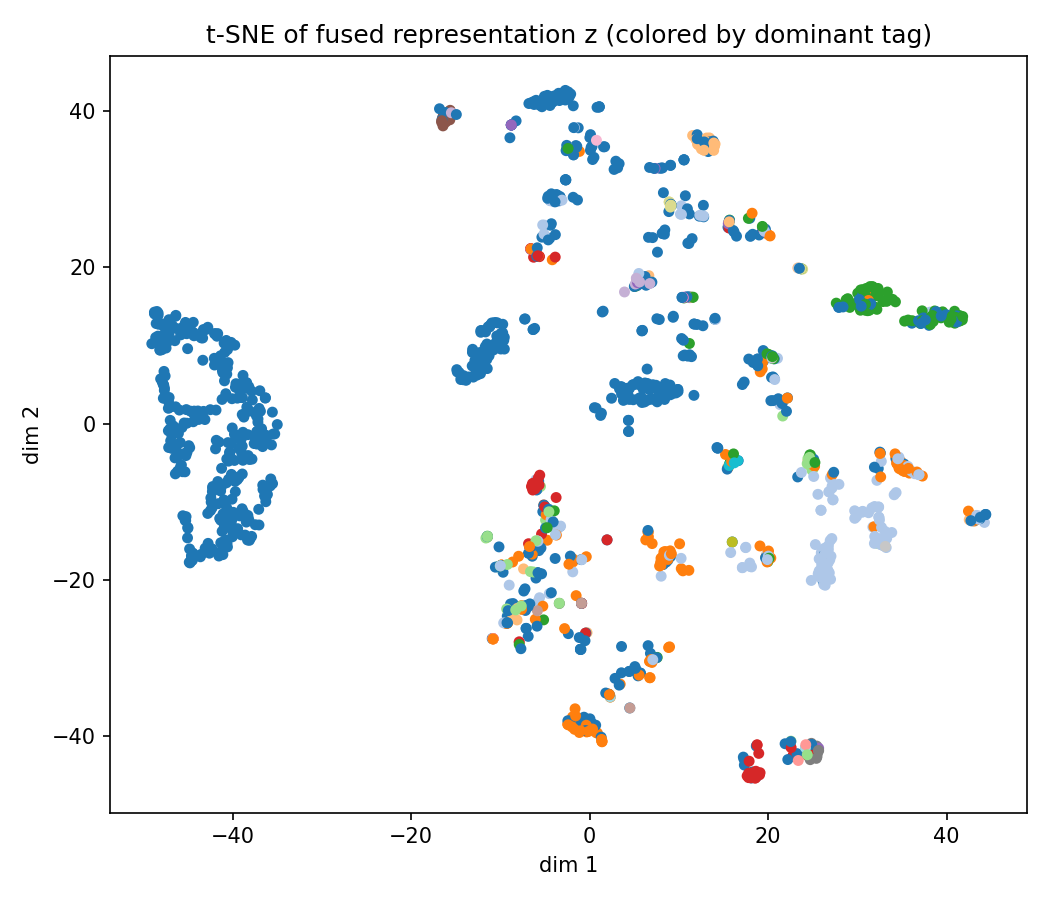
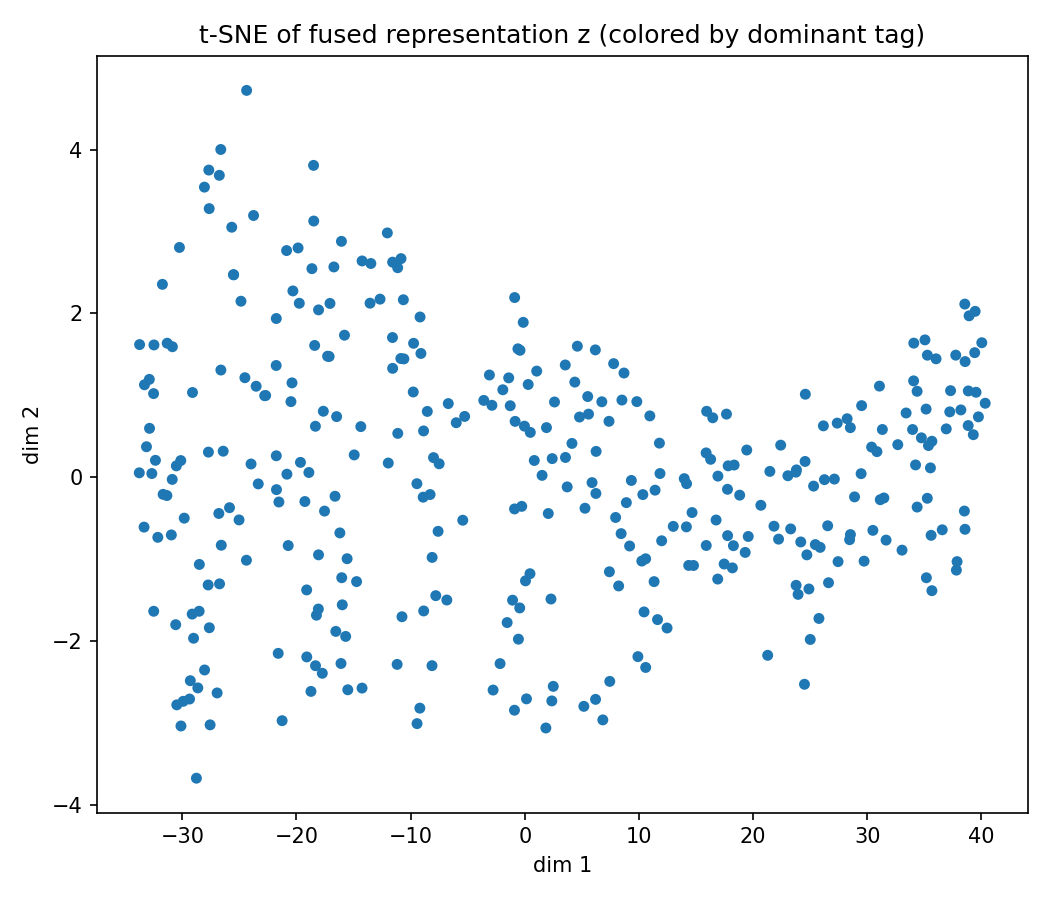
align repo structure with assignment spec: consolidate splits, remove dead code, document structure in README

diff --git a/README.md b/README.md
@@ -193,3 +193,30 @@ not a structural problem. DEAM's CSV parsing and MusicCaps' YouTube
 download were smoke-tested similarly for their code paths, but their
 exact live file formats (which can drift over time) weren't verified
 against the real hosts.
+
+
+## Actual repository structure vs. the assignment's illustrative example
+
+This repo extends the assignment's single-dataset example structure to
+support three real datasets (MagnaTagATune, DEAM, MusicCaps) instead of
+one. Every addition is functional, not incidental:
+
+- `config_mtat.yaml`, `config_deam.yaml`, `config_musiccaps.yaml`: one
+  config per dataset (vs. a single `config.yaml`), since each dataset
+  needs different paths/hyperparameters.
+- `src/datasets.py`: Dataset classes used by `train.py`/`evaluate.py`.
+- `src/prepare_magnatagatune.py`, `prepare_deam.py`, `prepare_musiccaps.py`,
+  `download_musiccaps.py`: the actual code that produced the real,
+  submitted data/results for each dataset -- required for reproducibility.
+- `src/pack_dir.py`/`unpack_dir.py`: utilities to persist/restore graph
+  data given Colab's ephemeral storage and GitHub's 100MB file limit.
+- `data/packed/`: compressed graph archives (safe to commit; the
+  unpacked versions are regenerated locally via `unpack_dir.py`).
+- `data/splits/deam/`, `data/splits/musiccaps/`: nested under the main
+  `splits/` folder alongside MagnaTagATune's own split files.
+- `data/raw/` is intentionally absent: raw audio (~GBs) is
+  redownloadable via the `prepare_*.py`/`download_musiccaps.py` scripts
+  and not committed, standard practice for datasets this size.
+- `results/`: contains the required `metrics.json`, `plots/`,
+  `retrieval_examples/`, plus per-task loss histories, example
+  predictions, and case studies referenced directly in the report.
